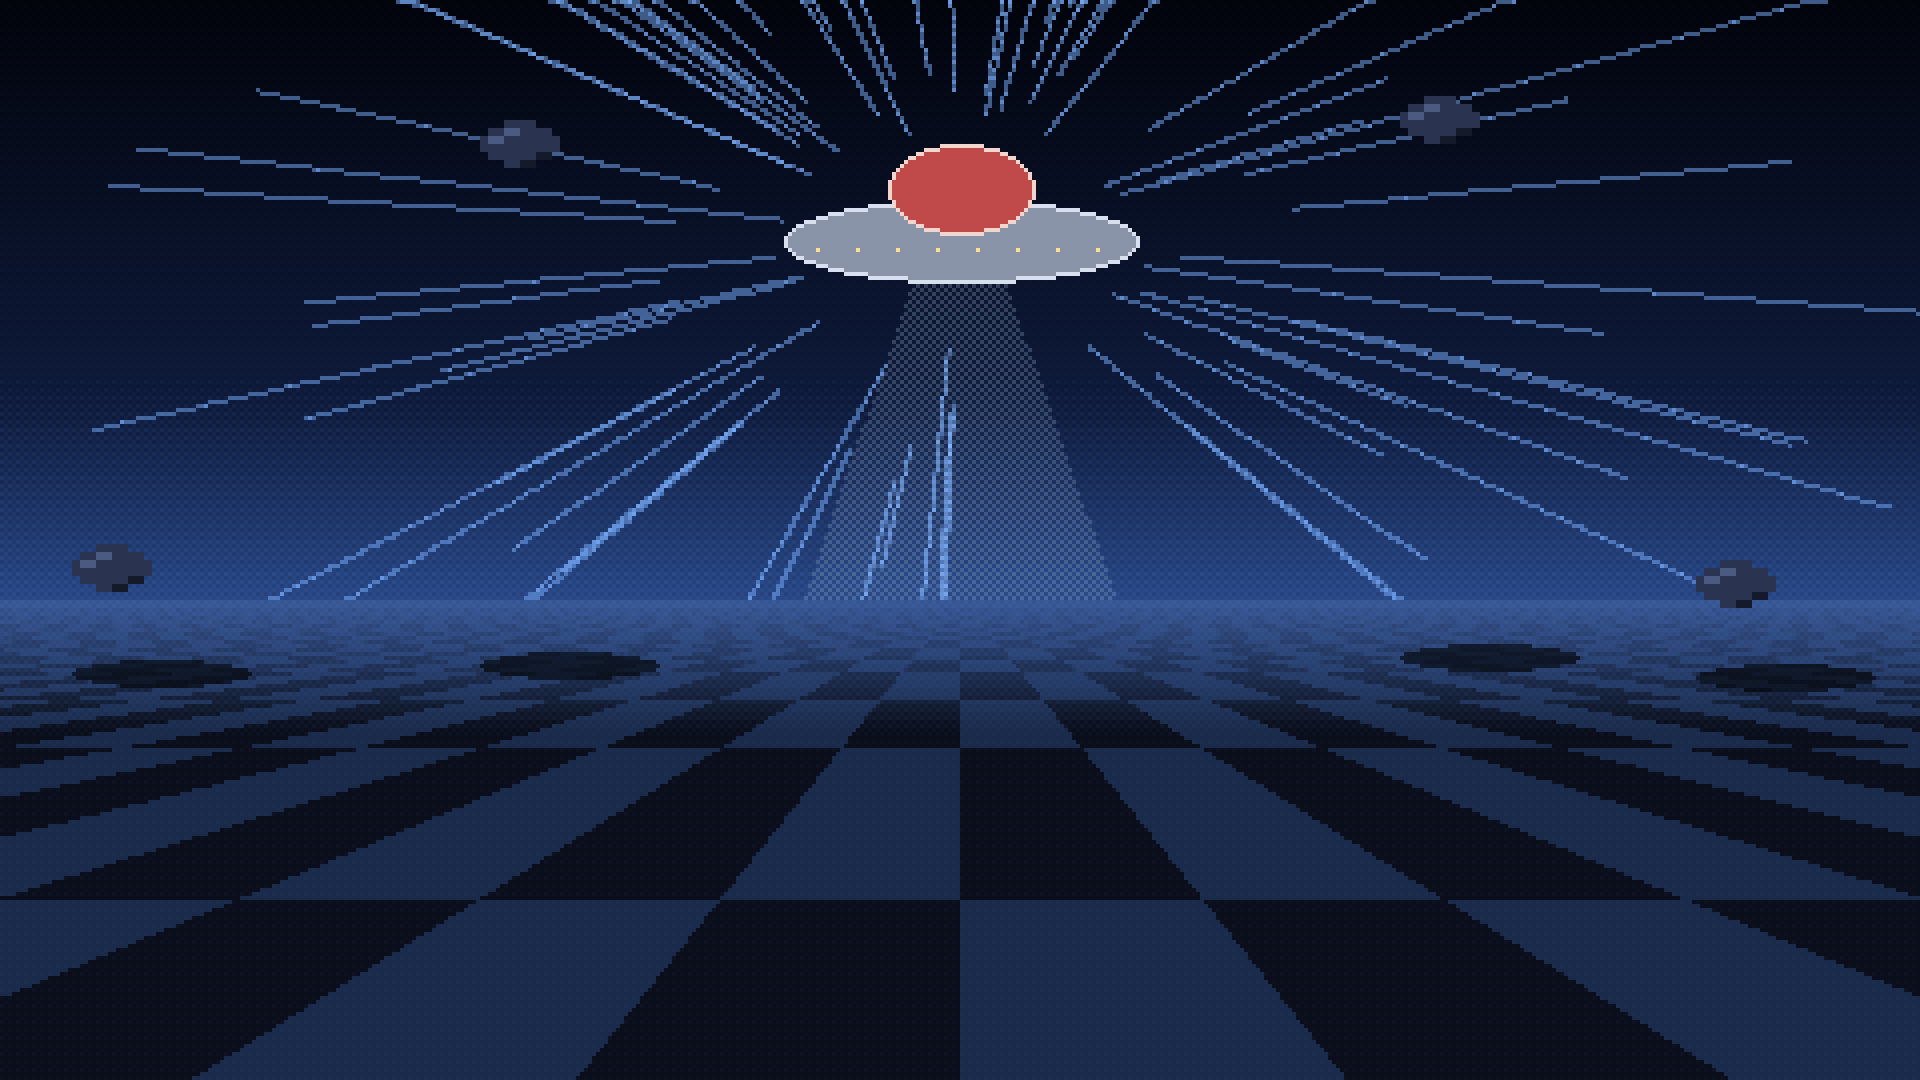
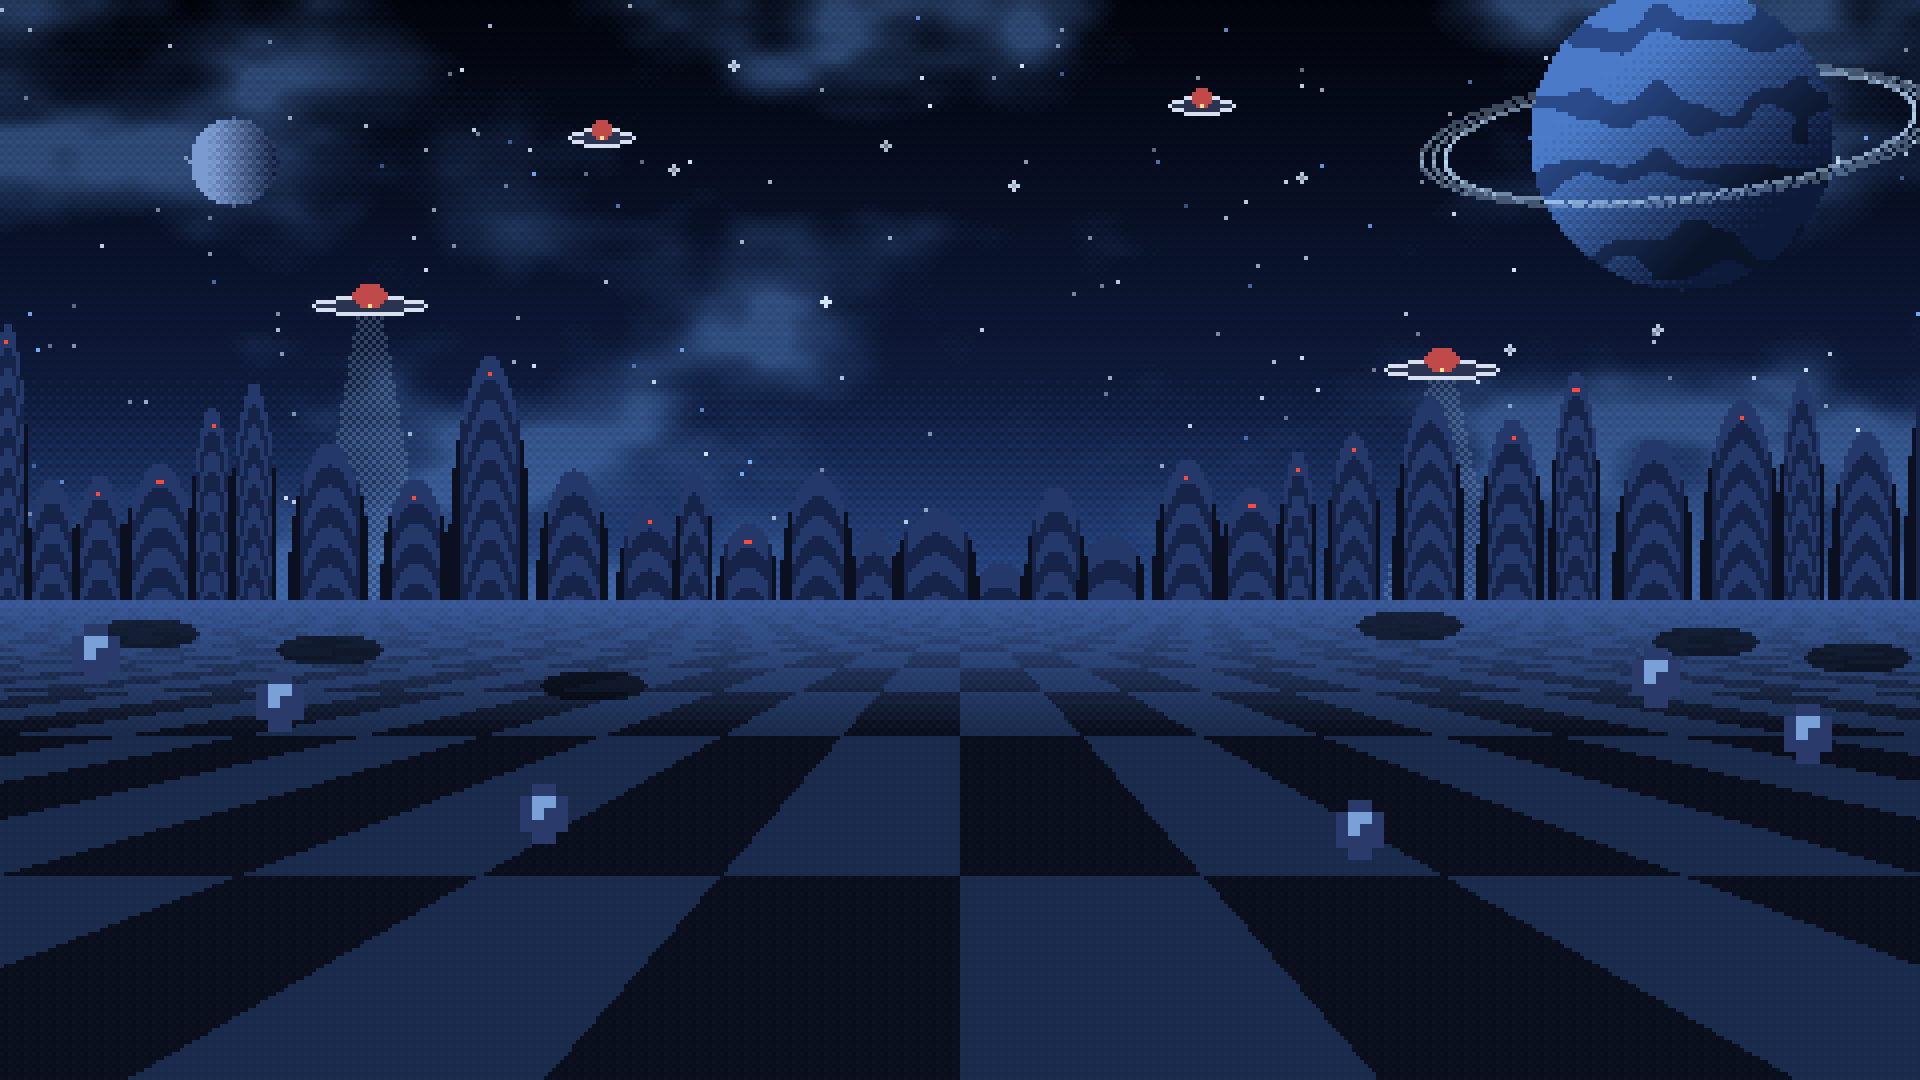
Alien boss raundu (P128)

diff --git a/index.html b/index.html
@@ -8,7 +8,7 @@
      Oyun kendi temalarını çizer; renklerine dokunulmasın. -->
 <meta name="color-scheme" content="only light">
 <title>OKEY Roguelike — Prototip</title>
-<link rel="stylesheet" href="style.css?v=f3422c3">
+<link rel="stylesheet" href="style.css?v=0db1709">
 <script>
 /* RENK TEMASI — İLK BOYAMADAN ÖNCE UYGULANIR.
    Tema `html[data-theme]` ile sürülüyor. Bu satır ui.js'e bırakılsaydı
@@ -517,10 +517,10 @@
   </div>
 
 </div>
-<script src="engine.js?v=f3422c3"></script>
-<script src="i18n.js?v=f3422c3"></script>
-<script src="pixelfx.js?v=f3422c3"></script>
-<script src="ui.js?v=f3422c3"></script>
-<script src="yenilikler.js?v=f3422c3"></script>
+<script src="engine.js?v=0db1709"></script>
+<script src="i18n.js?v=0db1709"></script>
+<script src="pixelfx.js?v=0db1709"></script>
+<script src="ui.js?v=0db1709"></script>
+<script src="yenilikler.js?v=0db1709"></script>
 </body>
 </html>

diff --git a/style.css b/style.css
@@ -10121,6 +10121,8 @@ html[data-theme="boss"][data-boss-ui="uzayli"] {
   --img-tray-4: url('assets/game/boss/uzayli/tray-4.svg');
   --img-tile-back: url('assets/game/boss/uzayli/tile-back.png');
   --img-rack-glow: url('assets/game/boss/uzayli/rack-glow.png');
+  --boss-char: url('assets/game/boss/uzayli/character.png');
+  --boss-char-x: 586px; --boss-char-y: 0px; --boss-char-w: 765px; --boss-char-h: 844px;
   --st-edge: #3A1A22; --st-edge-soft: rgba(58, 26, 34, .38); --st-bg: #F2D6CE;
   --st-head: #3A1A22; --st-rule: rgba(58, 26, 34, .35); --st-glow: rgba(122, 176, 255, .25);
 }
